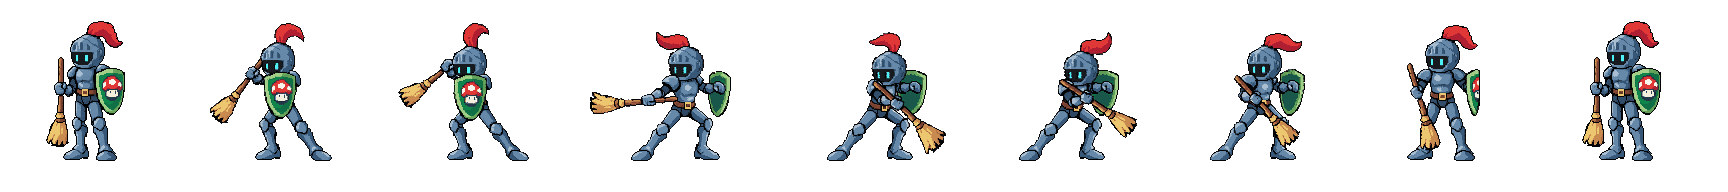
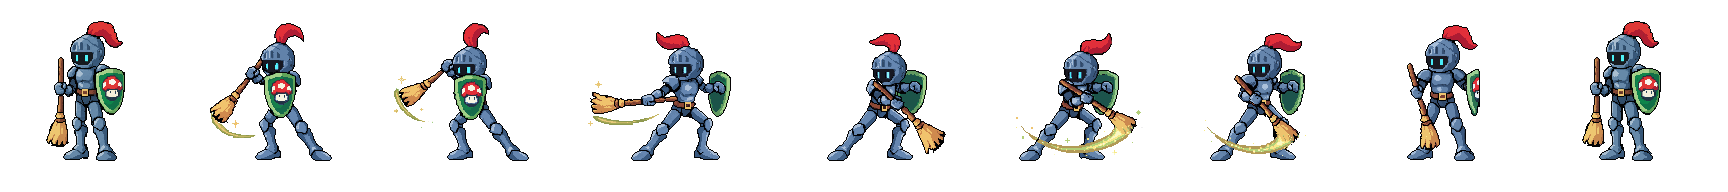
Add casting spore trail and subtle idle animation guidelines

diff --git a/tests/e2e/champignon-art.spec.ts b/tests/e2e/champignon-art.spec.ts
@@ -13,7 +13,7 @@ test('Champignon uses real idle, victory and shared casting sprites', async ({ p
   await expect(idle).toHaveAttribute('data-asset', 'ready');
   await page.clock.pauseAt(new Date(await page.evaluate(() => Date.now()) + 100));
   const initial = await idle.getAttribute('data-frame');
-  await page.clock.runFor(250);
+  await page.clock.runFor(400);
   expect(await idle.getAttribute('data-frame')).not.toBe(initial);
   await page.screenshot({ path: testInfo.outputPath('champignon-idle.png') });
   await page.getByRole('button', { name: 'Confirm Player 1' }).click();

diff --git a/specs/characters.md b/specs/characters.md
@@ -109,14 +109,21 @@ The prototype resolves the following with provisional rules in prototype.md; rev
 
 Sir Champignon’s `public/assets/characters/champignon/base-v3.png` is the approved design. It is the clean, taller adult revision using the finished mole/rabbit/star/board reference plate. His idle, victory and shared casting sheets now use this 192×192 design; v1 animation records are preserved separately, and v2 was a proportion draft. Preserve v3’s identity, clean flat shading and thick outlines in future work.
 
-The user requests very expressive animation: unmistakable body/limb movements, strong poses and clear silhouette changes. A small number of distinct key poses is sufficient. No barely moving character, tiny breathing-only idle, or whole-image CSS wiggling. Visual review belongs to the user; do not inspect generated frames with model vision. The user restored access and authorized this animation pass on 2026-11-18.
+The user requests expressive victory and casting actions: unmistakable body/limb movements, strong poses and clear silhouette changes. A small number of distinct key poses is sufficient. D70 revises idle for the entire roster: calm, subtle breathing and small secondary movement, with no large gestures or weight shifts. Whole-image CSS wiggling remains excluded. Visual review belongs to the user; do not inspect generated frames with model vision. The user restored access and authorized this animation pass on 2026-11-18.
 
 Animation briefs (generated clips await user visual review):
 
-- Idle: visible weight shift, head turn and a deliberate broom/shield adjustment, with secondary plume motion. Keep him grounded and recognizably alive.
+- Idle: gentle breathing and a tiny plume sway. Keep the head direction, stance, broom and shield steady; no broad weight shifts, head turns or arm gestures. Five frames at 3 fps.
 - Victory: crouch in anticipation, an exuberant full-body hop or proud step, an unmistakable raised broom/shield salute, then a readable proud landing/settle.
-- Shared casting: brace and wind up, twist the torso into a broad broom sweep, present the shield, then follow through and settle. Fit the established 1.5-second cast freeze and retain the separate stars-spent overlay.
+- Shared casting: brace and wind up, twist the torso into a broad broom sweep, present the shield, then follow through and settle. Add a compact golden-green magical spore trail that follows the broom bristles, with a few sparkles/motes dispersing behind it. Fit the established 1.5-second cast freeze and retain the separate stars-spent overlay.
 
-Favor clear anticipation, action, follow-through and a short held pose over numerous small in-between changes. Keep equipment attached, preserve colors and leave enough canvas margin for gestures without clipping.
+For casting and victory, favor clear anticipation, action, follow-through and a short held pose over numerous small in-between changes. Keep equipment attached, preserve colors and leave enough canvas margin for gestures without clipping.
 
-The current sheets contain the starting pose plus four generated idle frames (five total, 4 fps) and eight generated victory/casting frames (nine total; victory 8 fps, cast 9 fps plus 500 ms final-pose hold). All four casting tiers reference the same sheet. No generated spell-effect overlays or additional character assets are part of this pass.
+The current sheets contain the starting pose plus four generated idle frames (five total, 3 fps) and eight generated victory/casting frames (nine total; victory 8 fps, cast 9 fps plus 500 ms final-pose hold). All four casting tiers reference the same sheet. No generated spell-effect overlays or additional character assets are part of this pass.
+
+### Defaults for every future character
+
+- Idle is subtle: restrained breathing and small character-specific secondary motion. Save large gestures and clear silhouette changes for victory and casting.
+- Casting includes visible, character-appropriate magic: a trail, sparkles, motes, smoke or a similar effect tied to the gesture/weapon. Keep it within the sprite canvas, readable, and clear of the face and stars-spent overlay.
+- Casting magic is part of the one shared character casting animation. It does not replace each spell’s separate active-effect visuals.
+- The user reviews all generated images and animations; perform technical file/playback checks only.

diff --git a/README.md b/README.md
@@ -23,7 +23,7 @@ A single animated blue/red bar shows score difference, with blue on your side. T
 
 ## Current milestone
 
-Playable local/AI prototype using the original mole, rabbit, star, and garden artwork. Both initial characters have four spells, with early balance values in `src/assets/config/game.yaml`. Missing portraits/icons use recovered hero illustrations; absent/invalid cast sheets show a recovered hero during the shared 1.5-second cast freeze. Both boards and their gameplay timers stop during casts. Spell edge effects have visible procedural fallbacks and follow their actual lifetimes. Standing/idle preview sheets have drop-in paths too. Pacing runs in shared build/peak/recovery waves that restart identically each round, with independent board clocks, faster offers/shorter reaction windows for the trailing player, and concurrency limits. Private player-hosted online matches are implemented. Mobile delivery uses the ordinary browser website; PWA/offline-cached startup and native packaging are deferred. Six remaining characters stay deferred too. The user reopened Sir Champignon’s art pass: his expressive PixelLab idle, victory and shared casting clips use the user-approved adult base-v3 design and its final mole/rabbit/star/board reference style. These are review drafts; the user reviews visual quality, while automated checks validate files/playback. Other new sprite generation remains deferred. Open the published website or use a local development server to load the game; loaded local/AI matches do not require an external service.
+Playable local/AI prototype using the original mole, rabbit, star, and garden artwork. Both initial characters have four spells, with early balance values in `src/assets/config/game.yaml`. Missing portraits/icons use recovered hero illustrations; absent/invalid cast sheets show a recovered hero during the shared 1.5-second cast freeze. Both boards and their gameplay timers stop during casts. Spell edge effects have visible procedural fallbacks and follow their actual lifetimes. Standing/idle preview sheets have drop-in paths too. Pacing runs in shared build/peak/recovery waves that restart identically each round, with independent board clocks, faster offers/shorter reaction windows for the trailing player, and concurrency limits. Private player-hosted online matches are implemented. Mobile delivery uses the ordinary browser website; PWA/offline-cached startup and native packaging are deferred. Six remaining characters stay deferred too. The user reopened Sir Champignon’s art pass: his subtle PixelLab idle, expressive victory and magical shared casting clips use the user-approved adult base-v3 design and its final mole/rabbit/star/board reference style. Idle is subtle; casting includes a character-themed magic effect, with Champignon’s golden-green spore trail following his broom. Victory and casting actions remain expressive. These roster-wide rules are recorded in specs/characters.md. These are review drafts; the user reviews visual quality, while automated checks validate files/playback. Other new sprite generation remains deferred. Open the published website or use a local development server to load the game; loaded local/AI matches do not require an external service.
 
 Menu modes are **Night Watch** (solo), **Garden Grudge** (shared keyboard), and **Beyond the Hedge** (online). **Garden Shed** contains sound settings and **Field Notes** explains play. During selection, R confirms/changes your hero, numpad + the second editable hero, Enter starts when both are ready, and Esc goes back. Key hints reuse the supplied CraftPix pack and hide on touch-primary devices.
 

diff --git a/specs/status.md b/specs/status.md
@@ -31,7 +31,7 @@ Updated 2026-11-17 after comparing the remake with the oldest Dig Hole Battle Ga
 | --- | --- | --- |
 | 1 | Internet/mobile online QA | Player-hosted online works in real two-browser desktop/mobile tests. A fresh QR phone-to-Mac automatic check passed after cellular/Wi-Fi-off instructions: 11/10 hits, one cast each, actual channel interruption/recovery, direct UDP host/srflx and 27–36 ms heartbeat RTT. See reports/network-qa.md. Other device/network combinations and background suspension remain to test. PeerJS bundles shared STUN/TURN entries, but no project-managed relay is provisioned and relay reachability is unverified. No prediction/rollback, host migration or page-refresh recovery. |
 | 2 | Balance | Duration tuning substantially improves stalls: 0/6000 selected vs 124/6000 original held-out matches capped. Mixed-character median rounds 53/66/89 s (Easy/Medium/Hard), matches 150/171/245 s. Medium bot character split is near even; Hard still favors Champignon (64.2%) and some Hard mirrors remain long. See reports/balance-duration-review.md. Human keyboard/mouse/touch playtesting and spell/bot-policy review remain. |
-| 3 | Final presentation files | Home backgrounds and music are installed. Sir Champignon’s expressive idle/victory/shared cast clips are installed as review drafts based on the user-approved 192×192 base-v3 and its final mole/rabbit/star/board style references. Visual review belongs to the user; technical checks cover files and playback. Remaining: 12 assets for current screens plus two optional portraits—two icons, Nightshade’s standing/idle and shared casting sheets, eight spell-effect sheets and two optional portraits. Two generated victory sheets are already bundled. They drop into stable configured paths; missing assets use current fallbacks. Both heroes now have generated victory sprite sheets; CSS image wiggling is removed. Richer spell effects remain; defeat/hurt character reactions are excluded by user request. Active shields/wards, incoming hostile magic and attack expiry now have procedural edge placeholders; final effect art and richer block/arrival cues remain. |
+| 3 | Final presentation files | Home backgrounds and music are installed. Sir Champignon’s subtle idle, expressive victory and magic-trail shared cast clips are installed as review drafts based on the user-approved 192×192 base-v3 and its final mole/rabbit/star/board style references. Visual review belongs to the user; technical checks cover files and playback. Remaining: 12 assets for current screens plus two optional portraits—two icons, Nightshade’s standing/idle and shared casting sheets, eight spell-effect sheets and two optional portraits. Two generated victory sheets are already bundled. They drop into stable configured paths; missing assets use current fallbacks. Both heroes now have generated victory sprite sheets; CSS image wiggling is removed. Richer spell effects remain; defeat/hurt character reactions are excluded by user request. Active shields/wards, incoming hostile magic and attack expiry now have procedural edge placeholders; final effect art and richer block/arrival cues remain. |
 | 4 | Small-screen/browser QA | Browser-based mobile is the current delivery target. Automated touch tests cover hitting stars, casting by tapping the star container, 320×568/390×844 portrait and 844×390 landscape. Physical-device and browser-chrome/safe-area QA remain. |
 
 ## Confirmed round mechanic

diff --git a/public/assets/ASSET-CONTRACT.md b/public/assets/ASSET-CONTRACT.md
@@ -47,7 +47,7 @@ The regular check reports missing final files and validates supplied sprite-shee
 ### Sir Champignon — Sporelight Keep
 
 - Character icon.
-- Standing/idle animation: installed review draft, five 192×192 frames at 4 fps.
+- Standing/idle animation: installed review draft, five 192×192 frames at 3 fps.
 - One shared casting animation for all four spells: installed review draft, nine 192×192 frames at 9 fps and a 500 ms final-pose hold.
 - Four spell effects: Mushroom Guard, Clean Sweep, Spore Ward, Royal Cleanup.
 - Background and music are installed; see [credits](homes/CREDITS.md).
@@ -63,3 +63,7 @@ The regular check reports missing final files and validates supplied sprite-shee
 - Optional portrait, reserved for future portrait-based UI.
 
 Both characters have their victory animation, home background and music. Sir Champignon’s victory has been replaced with a matching review draft; his approved 192×192 base-v3 pose is used for all three expressive animation sheets. Exact prompts, seeds and PixelLab job IDs are recorded in characters/champignon/provenance.json, with first-pass history in animation-provenance-v1.json. User authorization D65 reopens this character’s art pass; other new generation remains deferred. The user handles visual review; technical checks only. The shared cast animation still displays the actual 1–4 stars spent; spell effects remain distinct per spell.
+
+## Roster-wide animation requirements (D70)
+
+All characters use subtle idle animation (gentle breathing and small secondary motion). Victory and casting remain expressive. Each character’s single shared casting animation includes a visible thematic magic effect following its action/weapon; this is separate from per-spell active-effect sheets. Champignon uses a golden-green spore/sparkle trail along his broom sweep. Preserve space for the stars-spent overlay. Only the user performs visual review.

diff --git a/specs/decisions.md b/specs/decisions.md
@@ -101,6 +101,8 @@ This file records the discussion's current state. An accepted concept is not a c
 
 | D69 | User restored PixelLab access and authorized resuming Champignon’s expressive idle/victory/shared-cast animations on 2026-11-18. Use the approved 192×192 base-v3 at native resolution, preserving its final-game reference style and adult proportions. Keep the existing 1.5-second casting freeze and actual stars-spent overlay. Visual quality review remains with the user. |
 
+| D70 | User approved Champignon’s animation style but revises D68 for all future characters: idle must be subtle and calm; casting must include a visible magic effect fitting the character and following the gesture/weapon. Keep expressive victory and casting body motion. For Champignon, replace the overactive idle with gentle breathing/plume sway and add a narrow golden-green spore trail and a few fading sparkles along the existing broom sweep. Preserve the approved victory. Visual review remains user-only, and one casting sheet still serves all spell tiers. |
+
 ## Current proposals, not yet confirmed
 
 - Initial implementation pair: **Sir Champignon and Andy**, following the recommendation and authorization to start; these are the current prototype defaults.
